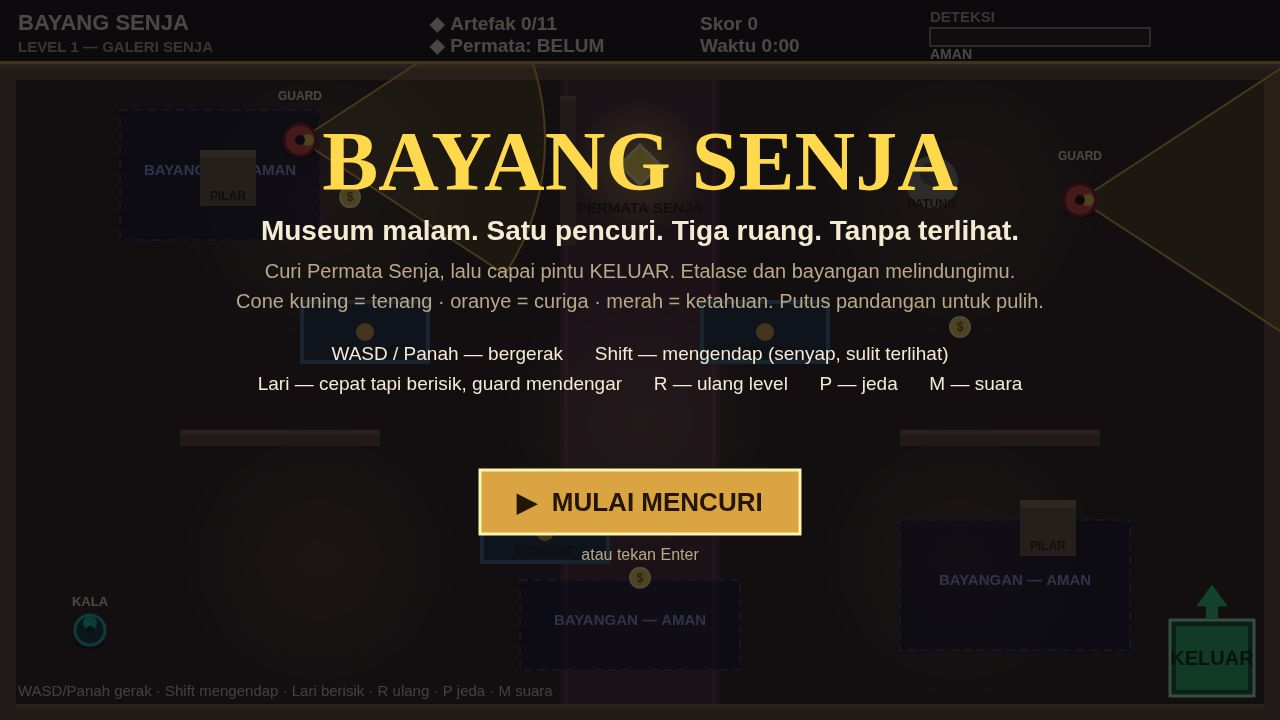
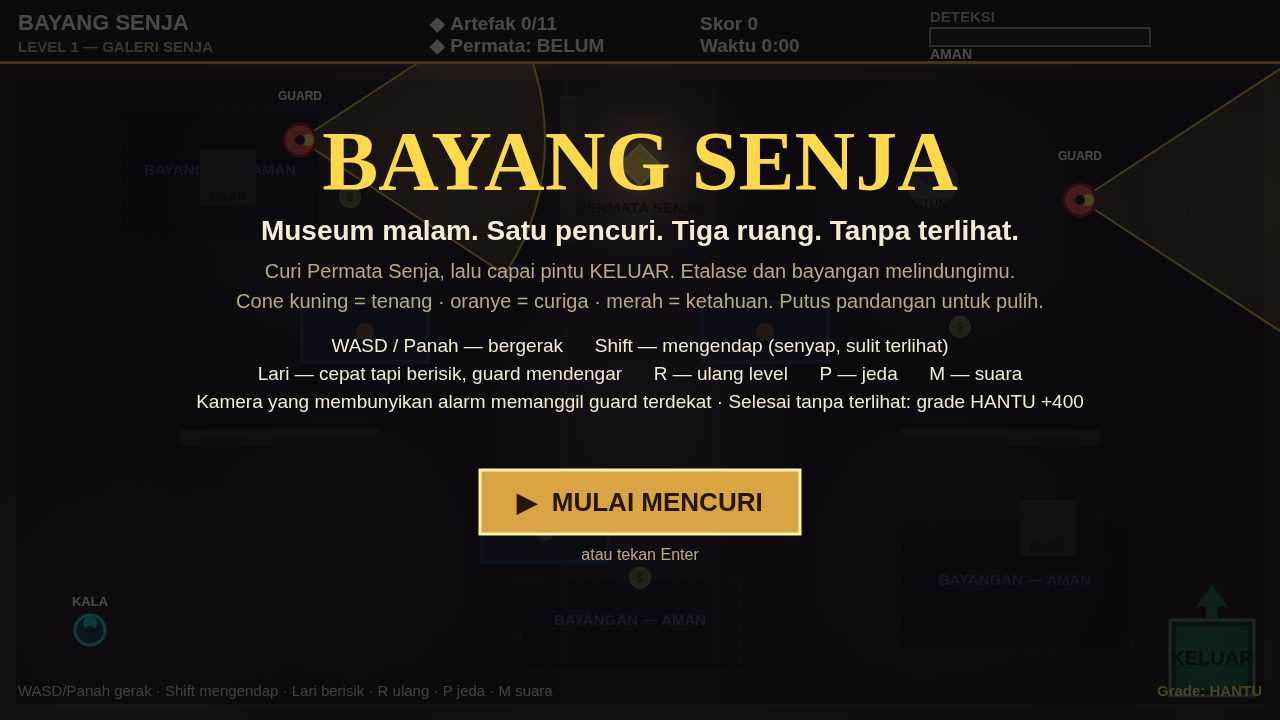
R2: README sistem baru + rewrite main.ts + screenshot r2 (lighting, grade, dispatch)

diff --git a/main.ts b/main.ts
@@ -1,32 +1,42 @@
-// Bayang Senja — program hand-in untuk make.fun (Node 22, stdlib saja).
-// Game-nya berupa file statis di game/ (index.html + modul ES, tanpa library
-// dan tanpa network request). Program ini menyalin game/ dan screenshots/
-// dari samping file ini ke /output lalu menulis /output/dossier.json, ringkasan
-// yang dibaca judge, memakai library make.fun yang sudah di-vendor.
-// Di luar container grader, MAKEFUN_OUTPUT_DIR menggantikan /output:
-//   mkdir -p out && MAKEFUN_OUTPUT_DIR=out node main.ts
+// Bayang Senja — entrypoint hand-in untuk make.fun (Node 22, stdlib saja).
+//
+// Game-nya statis: game/index.html + modul ES tanpa library dan tanpa request
+// jaringan. Yang dilakukan file ini cuma dua hal:
+//   1. menyalin game/ dan screenshots/ dari samping file ini ke direktori output
+//      (/output di dalam grader; di luar sana MAKEFUN_OUTPUT_DIR menggantikannya:
+//      mkdir -p out && MAKEFUN_OUTPUT_DIR=out node main.ts)
+//   2. menulis /output/dossier.json lewat library make.fun yang sudah di-vendor,
+//      supaya judge membaca ringkasan yang sama persis dengan yang scorer hitung.
+//
+// Batas-batas di bawah datang dari gate bounty ini: hanya text_max_bytes yang
+// membentuk byte dossier; sisanya menolak entry yang memang akan ditolak scorer
+// (lebih dari 4 screenshot, atau satu di atas 256 KiB; game/ di atas 993 file
+// atau 48 MiB; path di bawah game/ di atas 1000 byte; game/ dihitung bersama
+// batas 1000 entri /output itu sendiri, screenshots/, dan dossier.json).
+//
+// Ronde 2 — yang baru di game ini: kamera yang mencapai alarm memanggil guard
+// terdekat untuk memeriksa titik terakhir yang kamera lihat (dispatch); tiap
+// level dinilai HANTU / BAYANGAN / TERLIHAT dengan bonus hantu +400; dan
+// pencahayaan malam sinematik (light pool + vignette) di render.js.
 
 import { cpSync, existsSync, mkdirSync, writeFileSync } from 'node:fs';
 import { join } from 'node:path';
 import { fileURLToPath } from 'node:url';
 import { buildDossier } from './vendor/makefun-game.ts';
 
-const here = fileURLToPath(new URL('.', import.meta.url));
-const out = process.env.MAKEFUN_OUTPUT_DIR ?? '/output';
+const repoRoot = fileURLToPath(new URL('.', import.meta.url));
+const outputDir = process.env.MAKEFUN_OUTPUT_DIR ?? '/output';
 
-mkdirSync(out, { recursive: true });
-cpSync(join(here, 'game'), join(out, 'game'), { recursive: true });
-mkdirSync(join(out, 'screenshots'), { recursive: true });
-if (existsSync(join(here, 'screenshots'))) cpSync(join(here, 'screenshots'), join(out, 'screenshots'), { recursive: true });
+mkdirSync(outputDir, { recursive: true });
+cpSync(join(repoRoot, 'game'), join(outputDir, 'game'), { recursive: true });
+mkdirSync(join(outputDir, 'screenshots'), { recursive: true });
+if (existsSync(join(repoRoot, 'screenshots'))) {
+  cpSync(join(repoRoot, 'screenshots'), join(outputDir, 'screenshots'), { recursive: true });
+}
 
-// Batas-batas scorer (lihat kit): hanya text_max_bytes yang membentuk byte
-// dossier; sisanya menolak entry yang memang akan ditolak scorer (lebih dari
-// 4 screenshot atau satu di atas 256 KiB; game/ di atas 993 file atau 48 MiB,
-// atau path di bawah game/ di atas 1000 byte; game/ dihitung bersama batas
-// 1000 entri /output itu sendiri, screenshots/, dan dossier.json).
 writeFileSync(
-  join(out, 'dossier.json'),
-  buildDossier(out, {
+  join(outputDir, 'dossier.json'),
+  buildDossier(outputDir, {
     text_max_bytes: 163840,
     screenshots: { max: 4, max_bytes: 262144 },
     game_max_files: 993,

diff --git a/game/src/render.js b/game/src/render.js
@@ -604,7 +604,7 @@ export function drawWin(ctx, game) {
   ctx.fillText('MISI SELESAI!', VIEW_W / 2, 230);
   ctx.fillStyle = COLORS.text;
   ctx.font = 'bold 28px sans-serif';
-  ctx.fillText('Kala menghilang ke dalam senja dengan ketiga Permata. Tak satu pun guard melihatnya.', VIEW_W / 2, 282);
+  ctx.fillText('Kala menghilang ke dalam senja dengan ketiga Permata.', VIEW_W / 2, 282);
   ctx.font = 'bold 26px sans-serif';
   ctx.fillStyle = '#ffd94d';
   ctx.fillText(`SKOR AKHIR: ${game.state.score}`, VIEW_W / 2, 340);

diff --git a/README.md b/README.md
@@ -8,6 +8,12 @@
 
 You are Kala, a shadow thief. Steal the Permata Senja (Dusk Jewel) from each of 3 rooms and reach the green KELUAR exit unseen. Guards patrol fixed routes you can learn, with vision cones that turn yellow → orange → red as suspicion grows. Hide behind display cases, statues and pillars, or vanish into dark shadow zones. Sneak (Shift) to stay quiet and hard to spot; running is fast but noisy — guards hear it and come to investigate. Get fully spotted and the alarm sounds: break line of sight and hide to recover, or get caught. Level 2 adds a sweeping security camera; level 3 locks the jewel room behind a brass key.
 
+**Camera dispatch:** a security camera that reaches full alarm does not just flash red — it radios the nearest patrolling guard, who leaves his route to investigate the exact spot the camera last saw you. Break the camera's line of sight before its suspicion fills, or be ready to move when a guard comes to check.
+
+**Stealth grades:** every level is graded on how cleanly you stole it — **HANTU** (never spotted at all, peak suspicion under 50), **BAYANGAN** (spotted but the alarm never sounded), or **TERLIHAT** (the alarm went off). Finishing a level as HANTU pays a **+400 ghost bonus**. Your live grade shows in the bottom-right corner; per-level grades are listed on the win screen.
+
+**Night lighting:** the museum is lit like a night heist — a dark overlay with pools of warm light around you, at the far end of every guard's vision cone, around the jewel and the exit, plus a soft vignette at the screen edges. Cones, guards and the HUD stay bright and readable against the dark.
+
 All art is drawn procedurally on canvas and all sound is procedural WebAudio — no external assets, no network requests.
 
 ## How to play
@@ -16,7 +22,7 @@ All art is drawn procedurally on canvas and all sound is procedural WebAudio —
 - **Shift** — sneak (slow, quiet, harder to spot)
 - **R** — restart level · **P** — pause · **M** — mute
 - **Mouse / Enter** — menus and buttons
-- Collect gold artifacts for bonus points; the jewel is worth 500.
+- Collect gold artifacts for bonus points; the jewel is worth 500. Finish a level unseen (grade HANTU) for +400.
 
 ## Run it
 
